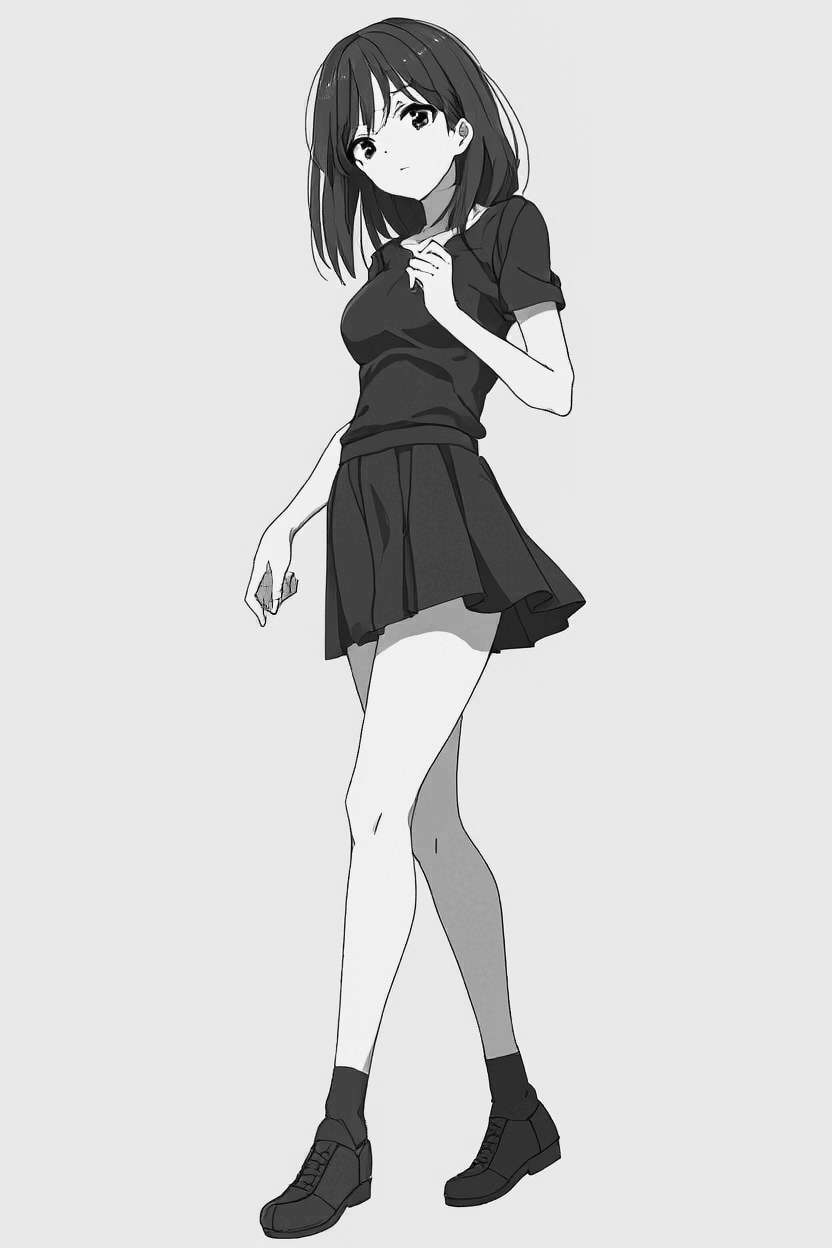
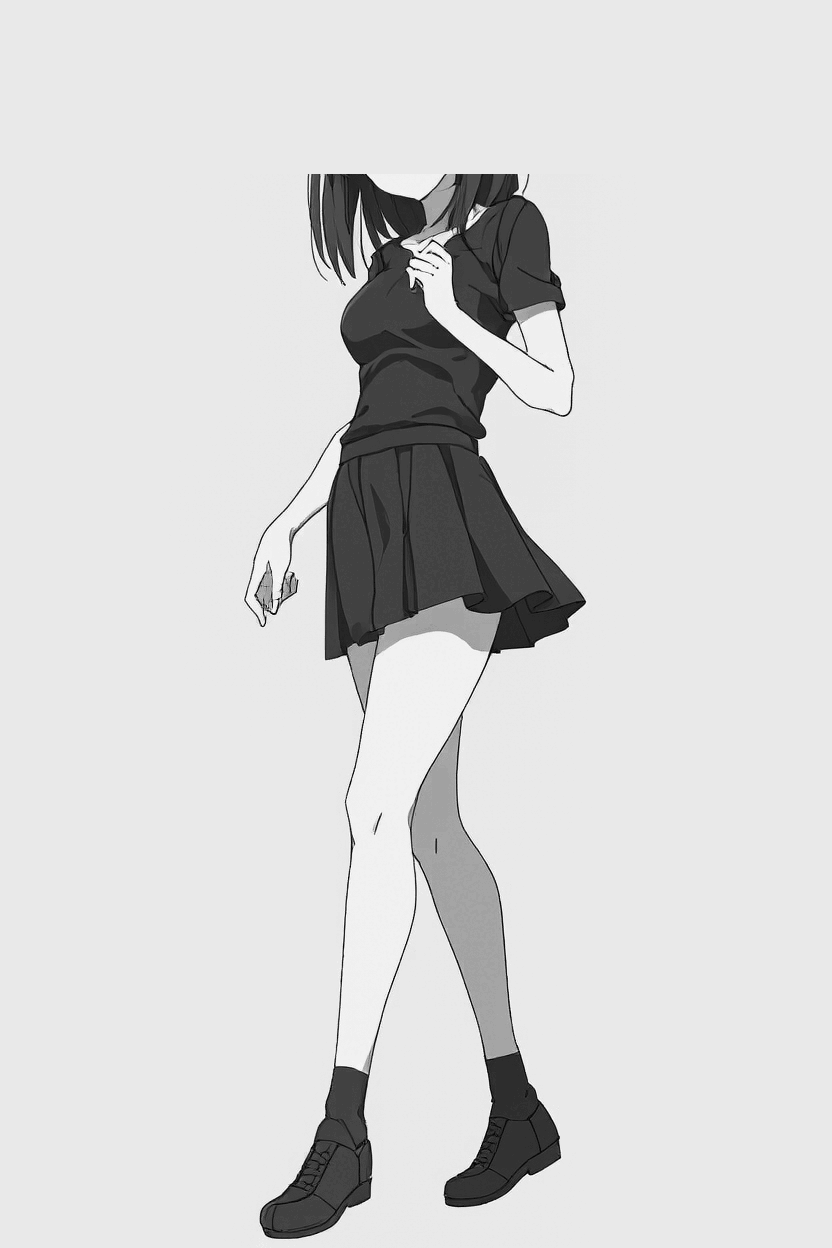
Headless body drawings (the drawn face pulled her face toward the drawing's), gentler petite/tall tags, make-body cuts the head

Changed region(s): [[0.375, 0.0, 0.625, 0.1562]]

diff --git a/kit/studio/gen.py b/kit/studio/gen.py
@@ -202,6 +202,12 @@ def cmd_make_body(a):
         sys.exit("no candidates yet: run without --pick first")
     it = meta["items"][a.pick - 1]
     im = Image.open(core.output_path(it["file"], s)).convert("L").resize((832, 1248), Image.LANCZOS)
+    # remove the head: a drawn face steers the girl's face toward the drawing's face style; with the head band
+    # painted in the background grey the face and hair come only from the Love Live prompt (lab round kt11)
+    cut = a.head_cut if a.head_cut is not None else (0.16 if a.shot == "full" else 0.32)
+    if cut > 0:
+        bgc = int(sum(im.crop((0, 0, 20, 20)).getdata()) / 400)
+        im.paste(bgc, (0, 0, 832, int(1248 * cut)))
     os.makedirs(os.path.join(core.MY, "controls"), exist_ok=True)
     dst = os.path.join(core.MY, "controls", name + ".png")
     im.save(dst)
@@ -292,6 +298,7 @@ def main():
     mb.add_argument("--seeds")
     mb.add_argument("--pick", type=int)
     mb.add_argument("--label")
+    mb.add_argument("--head-cut", dest="head_cut", type=float, help="fraction of the height painted out from the top (default 0.16 full, 0.32 cowboy; ~0.42 for a chibi; 0 keeps the head). Check the saved drawing: no face may be left, raised arms should stay")
     mb.add_argument("--open", action="store_true")
     sh = sp.add_parser("sheet")
     sh.add_argument("round_id")
